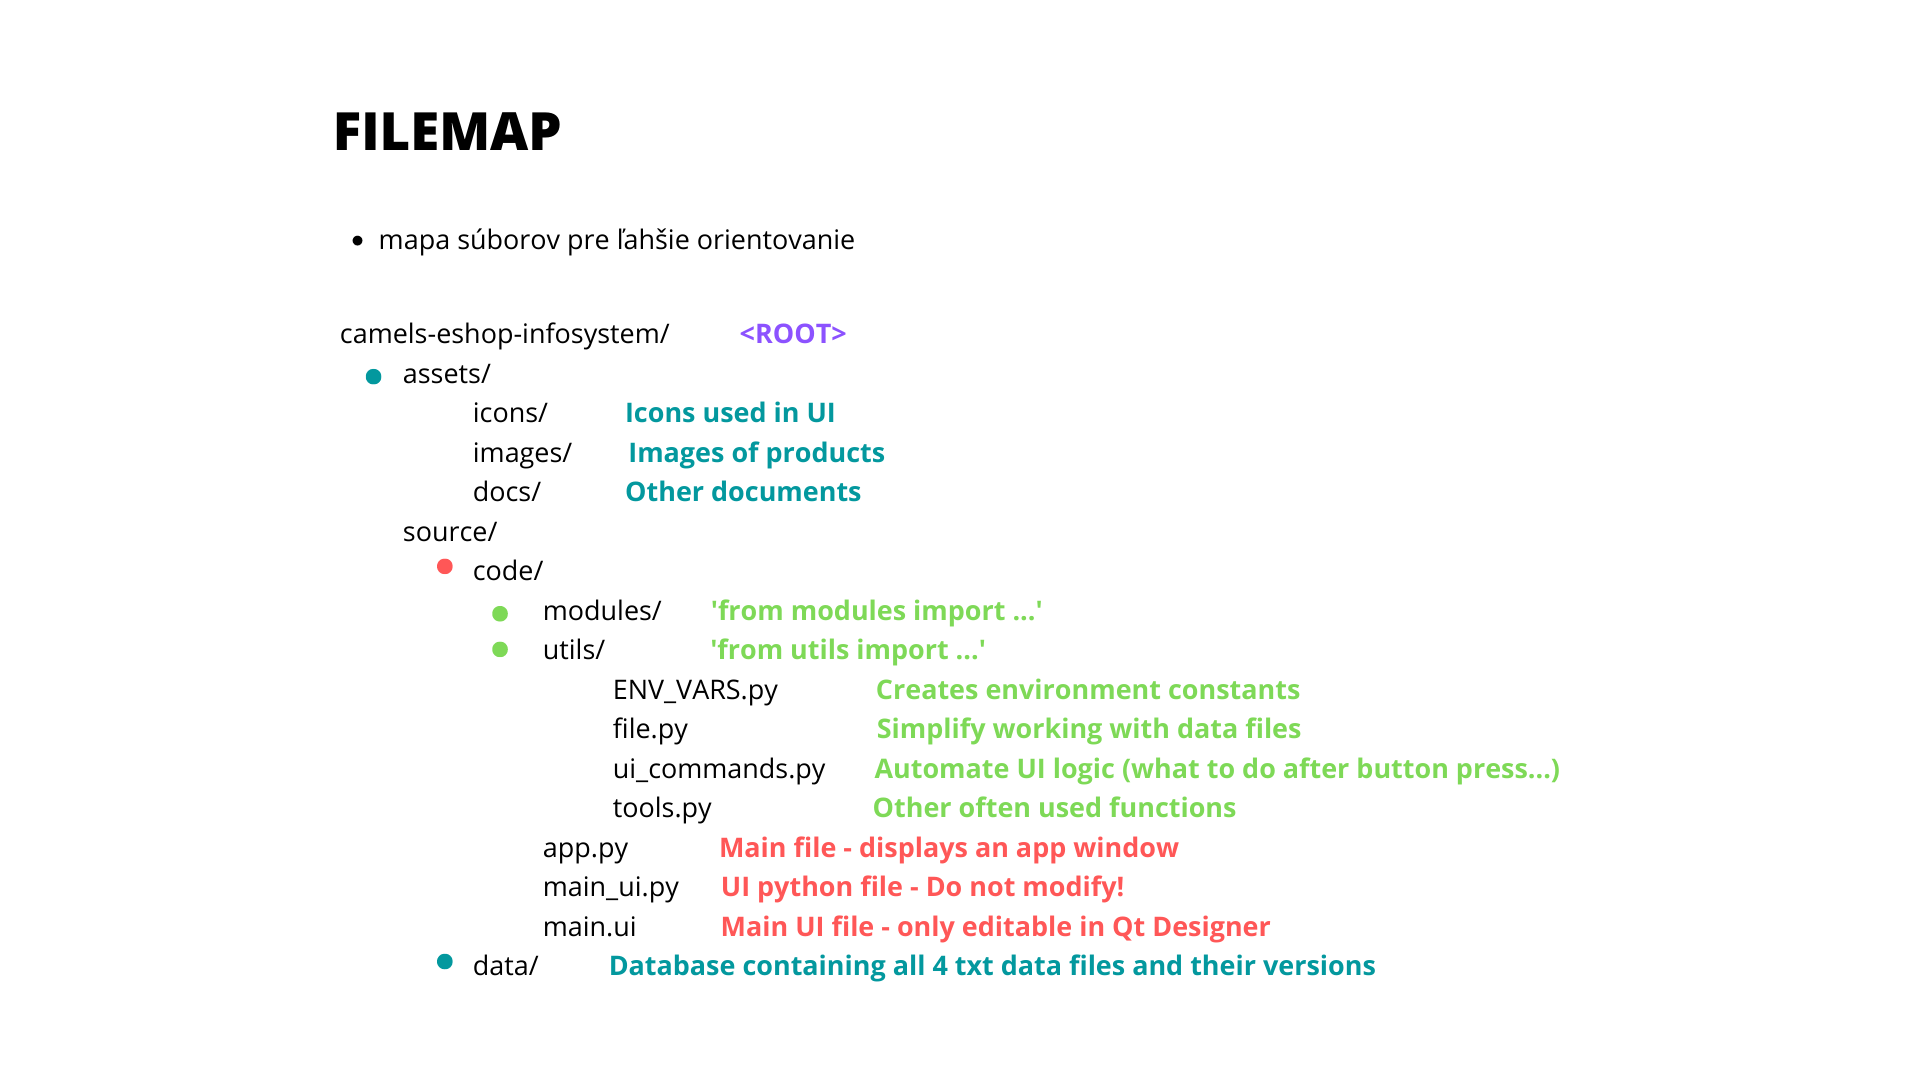
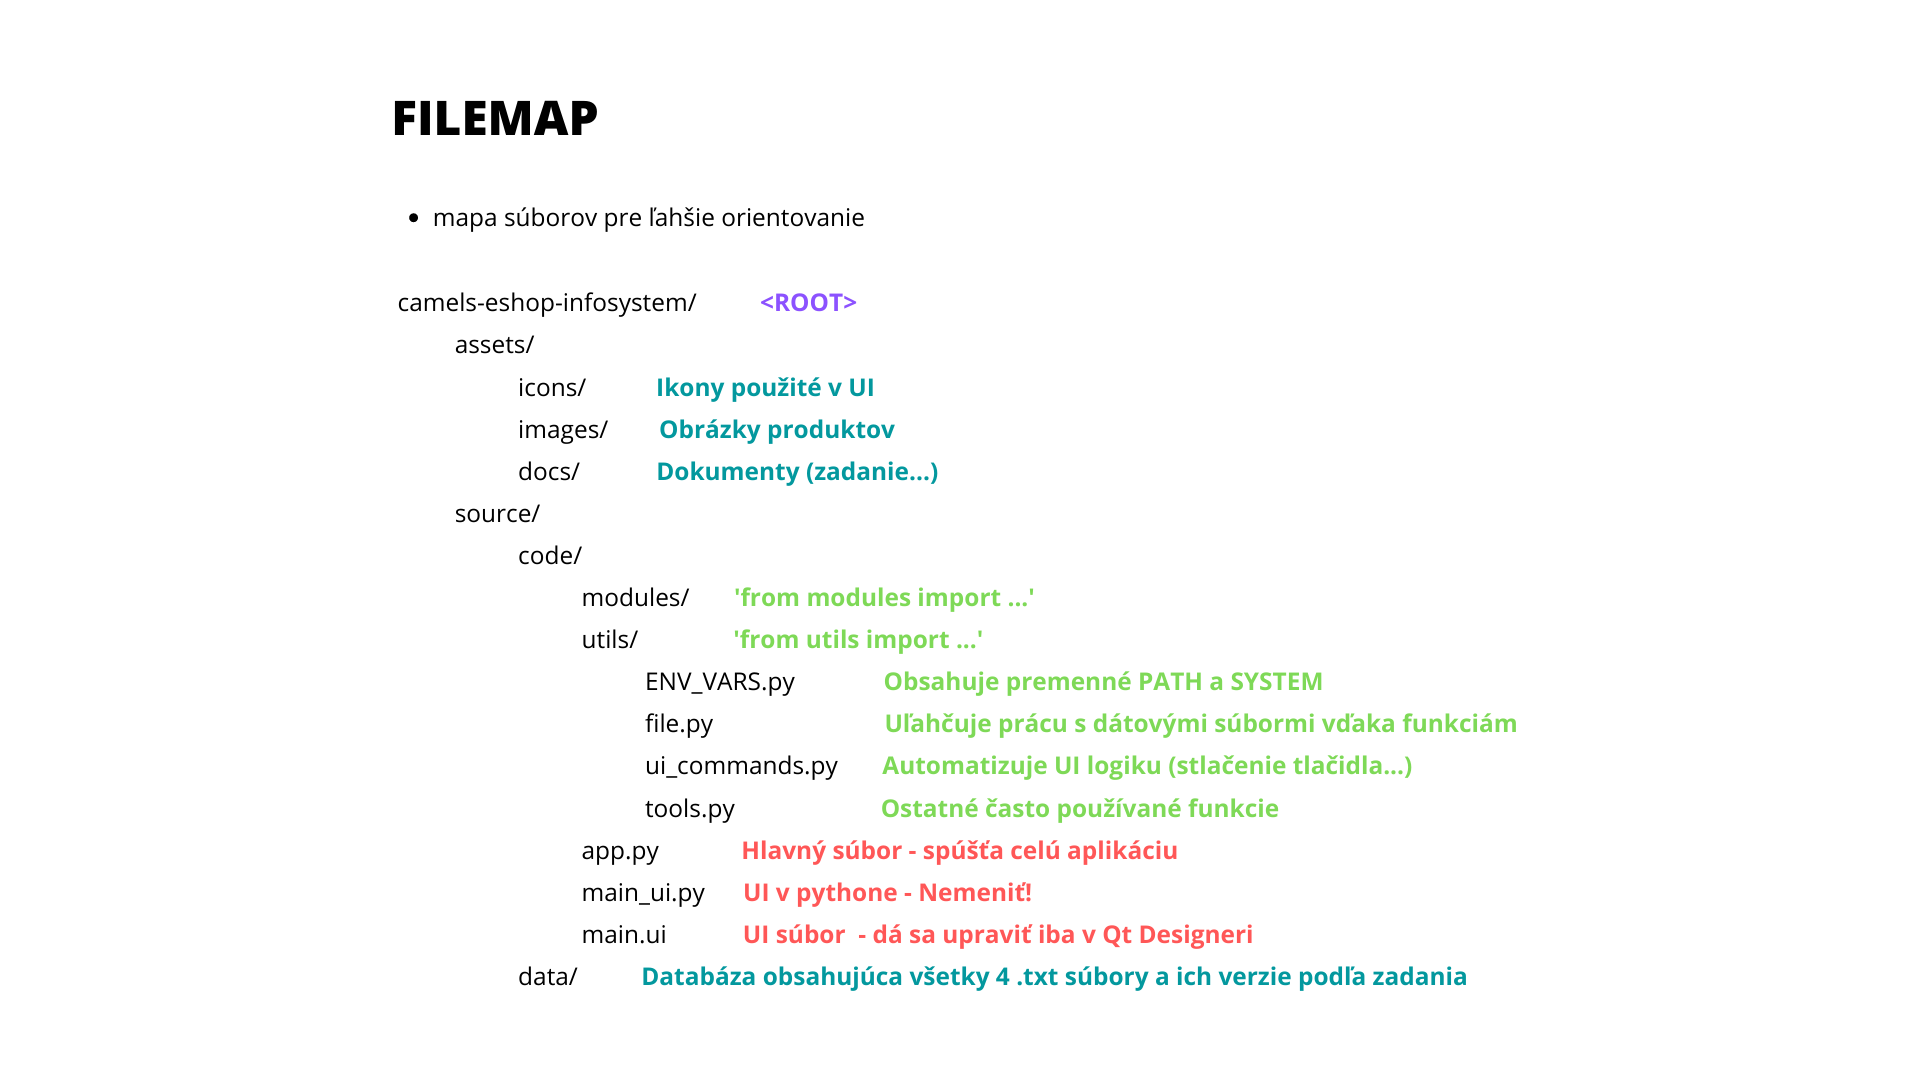
Modified filemap.png

diff --git a/source/code/modules/modul_portal.py b/source/code/modules/modul_portal.py
@@ -1,4 +1,4 @@
-from utils.files import File
+from utils.file import File
 from utils.ui_commands import UI_Commands
 from utils import tools
 
